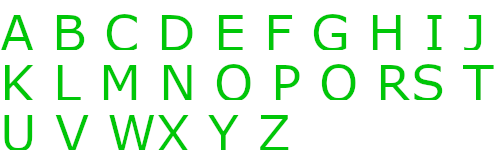
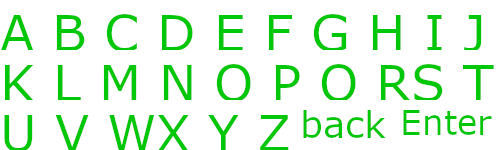
リザルトシーンのランキング表示更新

Changed region(s): [[0.6, 0.72, 0.99, 0.9333]]

diff --git a/QuickHitShooting/Keyboard.cpp b/QuickHitShooting/Keyboard.cpp
@@ -1,4 +1,5 @@
 #include "Keyboard.h"
+#include <DxLib.h>
 #include "Menu.h"
 
 #include "Game.h"
@@ -8,32 +9,72 @@
 Keyboard::Keyboard()
 {
 	_menu.reset(new Menu());
+	_name = "---";
 
+	_nameCount = 0;
+	
 	ImageData data;
 	Game::Instance().GetFileSystem()->Load("img/keyboard.png", data);
 	int img = data.GetHandle();
 
 	int count = 0;
+	Vector2<int> scrSize = Game::Instance().GetScreenSize();
+	Vector2<int> keypos;
 
 	for (char i = 'A'; i <= 'Z'; ++i)
 	{
-		Vector2<int> keypos = Vector2<int>(50 * (count % 10), 50 * (count / 10));
-		_menu->AddMenuList({ i }, keypos, keypos + Vector2<int>(50, 50), Rect(keypos + Vector2<int>(25, 25), Size(50, 50)), img);
+		keypos = Vector2<int>(100 * (count % 10), 100 * (count / 10)) + Vector2<int>(140, scrSize.y/2);
+		_menu->AddMenuList({ i }, keypos, keypos + Vector2<int>(100, 100), Rect(Vector2<int>(50 * (count % 10), 50 * (count / 10)) + Vector2<int>(25, 25), Size(50, 50)), img);
 		
 		++count;
 	}
+
+	keypos = Vector2<int>(100 * (count % 10), 100 * (count / 10)) + Vector2<int>(140, scrSize.y / 2);
+	_menu->AddMenuList("del", keypos, keypos + Vector2<int>(200, 100), Rect(Vector2<int>(50 * (count % 10), 50 * (count / 10)) + Vector2<int>(50, 25), Size(100, 50)), img);
+	count += 2;
+
+	keypos = Vector2<int>(100 * (count % 10), 100 * (count / 10)) + Vector2<int>(140, scrSize.y / 2);
+	_menu->AddMenuList("enter", keypos, keypos + Vector2<int>(200, 100), Rect(Vector2<int>(50 * (count % 10), 50 * (count / 10)) + Vector2<int>(50, 25), Size(100, 50)), img);
 }
 
 Keyboard::~Keyboard()
 {
 }
 
-void Keyboard::Update(const Peripheral& p)
+bool Keyboard::Update(const Peripheral& p)
 {
 	_menu->Update(p);
+
+	for (char i = 'A'; i <= 'Z'; ++i)
+	{
+		if (_menu->CheckClick({ i }, p) && (_nameCount < 3))
+		{
+			_name[_nameCount] = { i };
+			++_nameCount;
+		}
+	}
+
+	if (_menu->CheckClick("del", p) && (_nameCount > 0))
+	{
+		--_nameCount;
+		_name[_nameCount] = '-';
+	}
+	else if (_menu->CheckClick("enter", p))
+	{
+		return true;
+	}
+
+	return false;
 }
 
-void Keyboard::Draw(const Vector2<int>& pos)
+void Keyboard::Draw()
 {
+	DxLib::DrawString(100, 100, _name.c_str(), 0xff0000);
+
 	_menu->Draw();
+}
+
+std::string Keyboard::GetName() const
+{
+	return _name;
 }

diff --git a/QuickHitShooting/Menu.cpp b/QuickHitShooting/Menu.cpp
@@ -12,11 +12,11 @@ Menu::Menu()
 {
 	_cd.reset(new CollisionDetector());
 
-	ImageData data;
-	Game::Instance().GetFileSystem()->Load("img/white.png", data);
-	img = data.GetHandle();
+	//ImageData data;
+	//Game::Instance().GetFileSystem()->Load("img/white.png", data);
+	//_img = data.GetHandle();
 
-	size = 20;
+	//_size = 20;
 }
 
 
@@ -72,7 +72,7 @@ void Menu::Draw()
 
 		if (md.flag)
 		{
-			DxLib::DrawExtendGraph(md.rect.Left() - size, md.rect.Top() - size, md.rect.Right() + size, md.rect.Bottom() + size, img, true);
+			//DxLib::DrawExtendGraph(md.rect.Left() - _size, md.rect.Top() - _size, md.rect.Right() + _size, md.rect.Bottom() + _size, _img, true);
 			DxLib::SetDrawBlendMode(DX_BLENDMODE_ALPHA, 192);
 		}
 

diff --git a/QuickHitShooting/Keyboard.h b/QuickHitShooting/Keyboard.h
@@ -1,5 +1,6 @@
 #pragma once
 #include <memory>
+#include <string>
 #include "Geometry.h"
 
 class Menu;
@@ -9,13 +10,18 @@ class Keyboard
 {
 private:
 	std::shared_ptr<Menu> _menu;
+	std::string _name;
+
+	unsigned int _nameCount;
 
 public:
 	Keyboard();
 	~Keyboard();
 
-	void Update(const Peripheral& p);
+	bool Update(const Peripheral& p);
 
-	void Draw(const Vector2<int>& pos);
+	void Draw();
+
+	std::string GetName()const;
 };
 

diff --git a/QuickHitShooting/Scene/ResultScene.h b/QuickHitShooting/Scene/ResultScene.h
@@ -43,6 +43,7 @@ private:
 	void RankinUpdate(const Peripheral& p);
 	void WaitUpdate(const Peripheral& p);
 
+
 	ResultData _resultData;
 
 	std::unique_ptr<TrimString> _trimString;
